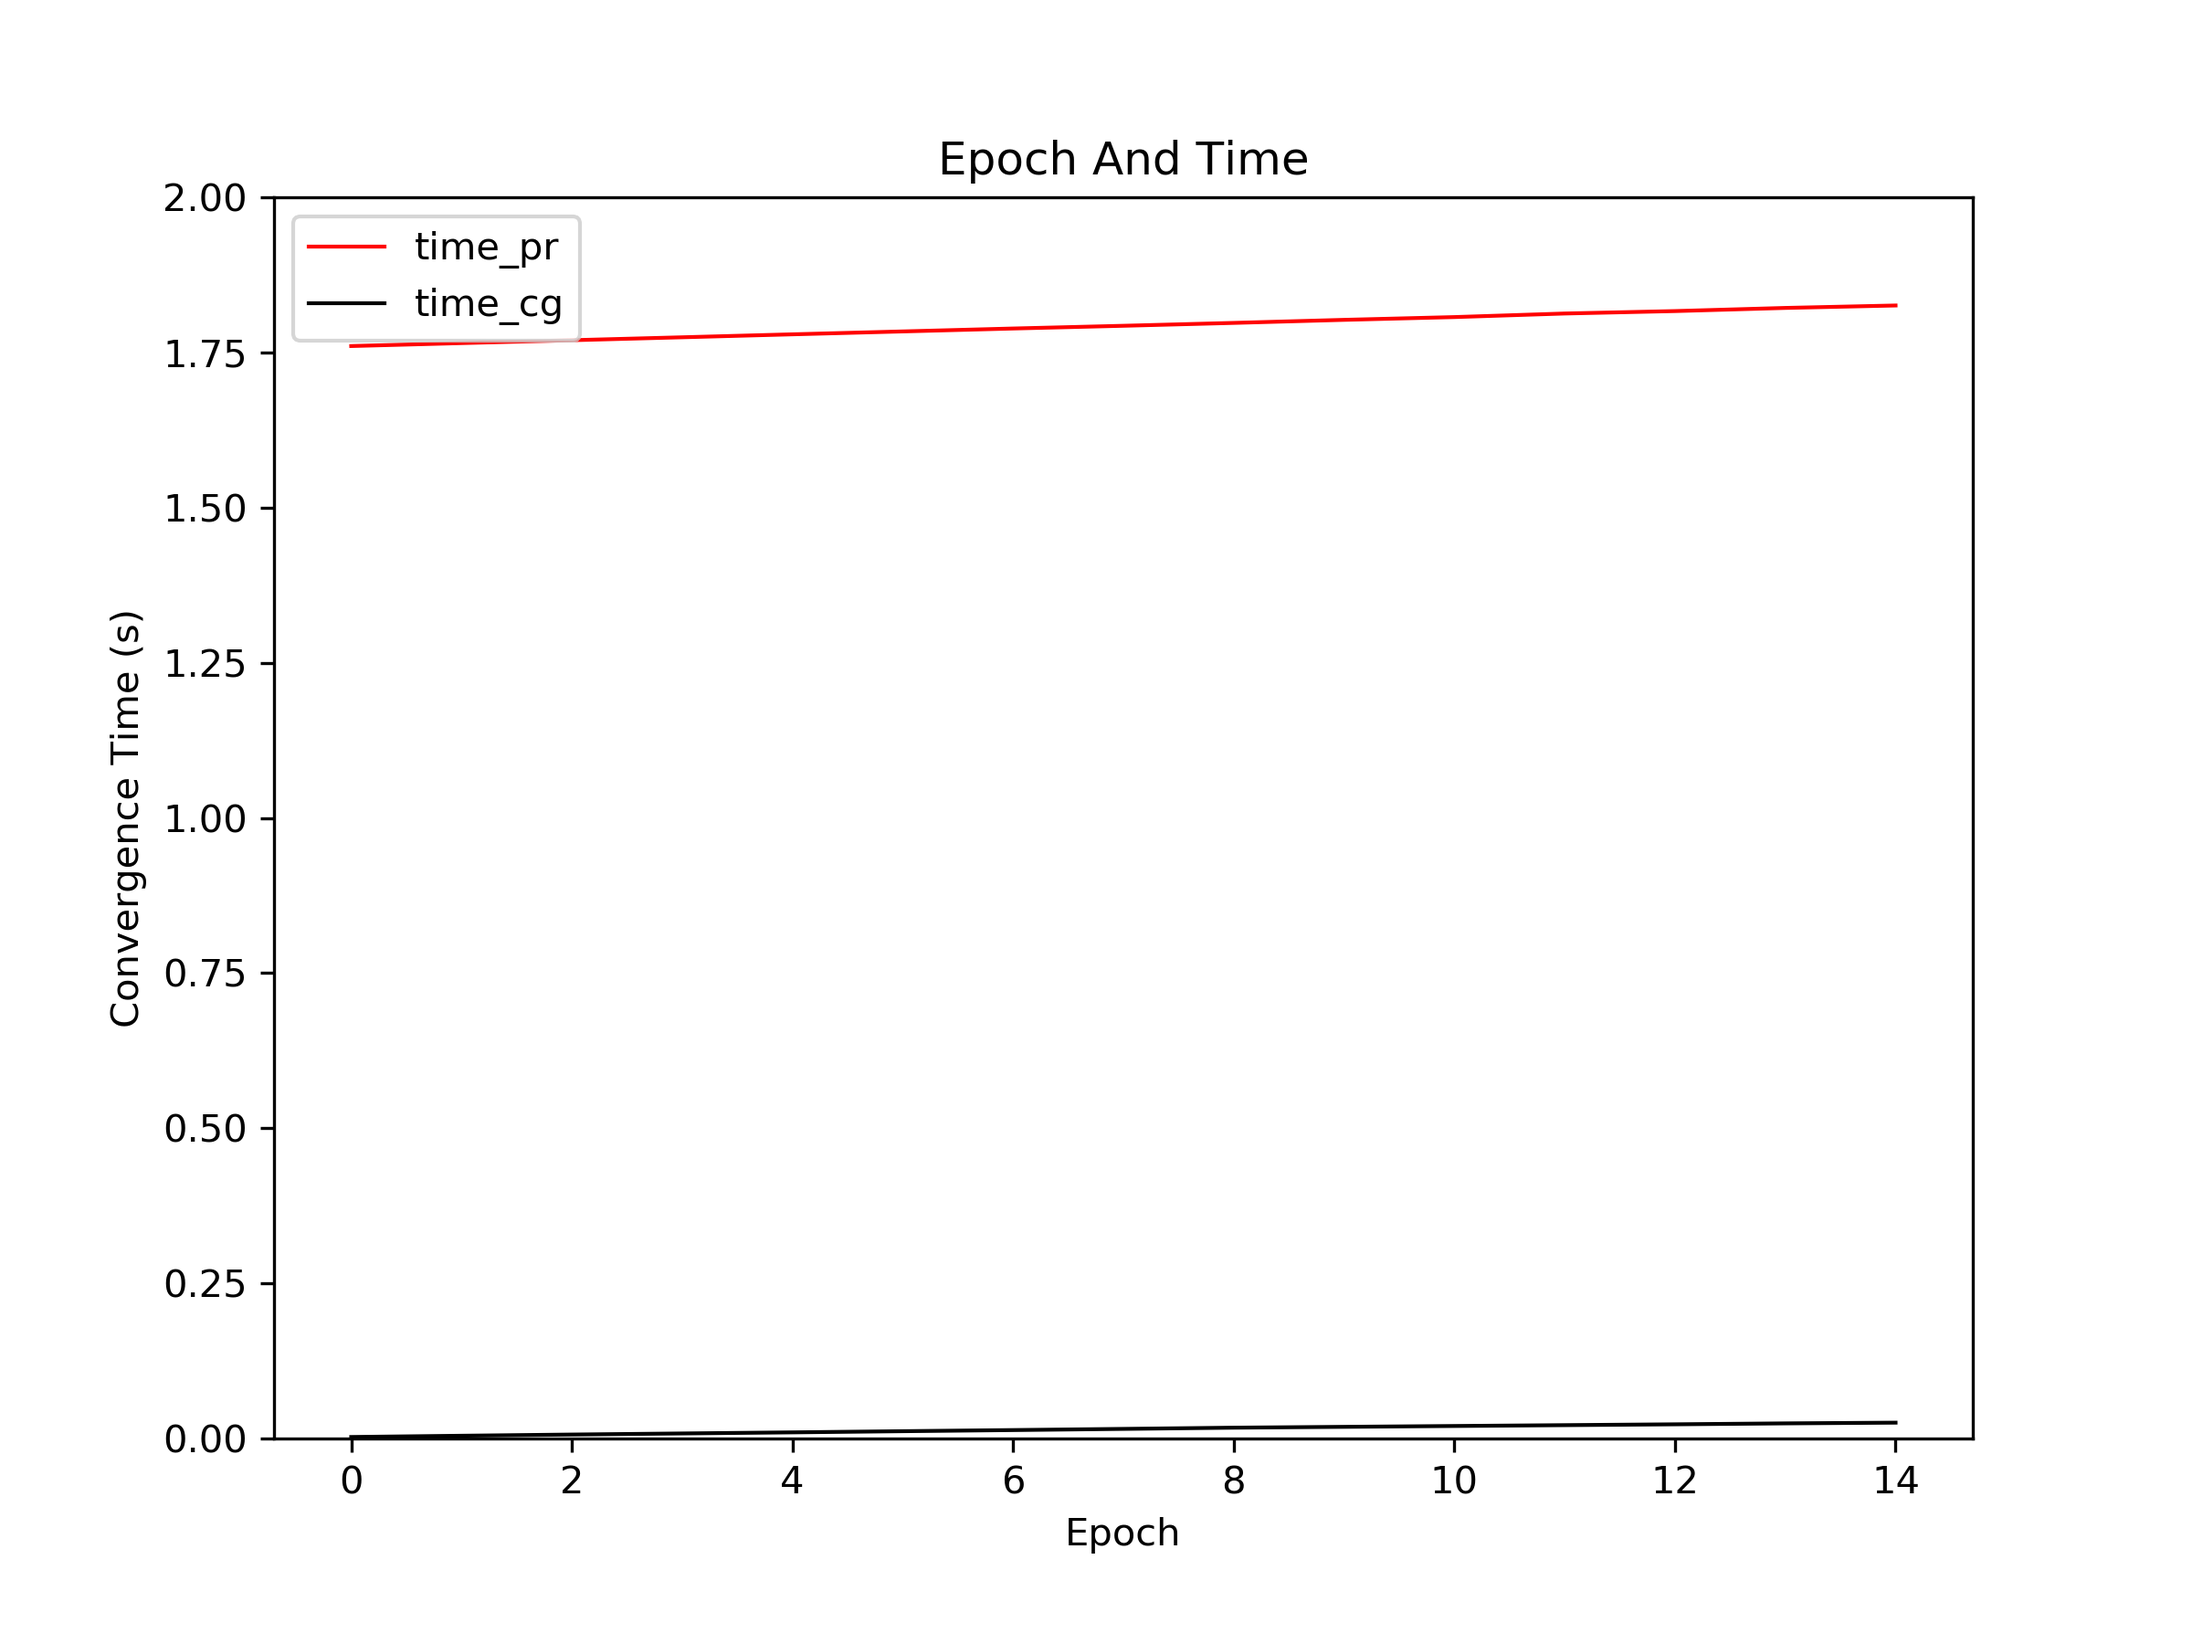
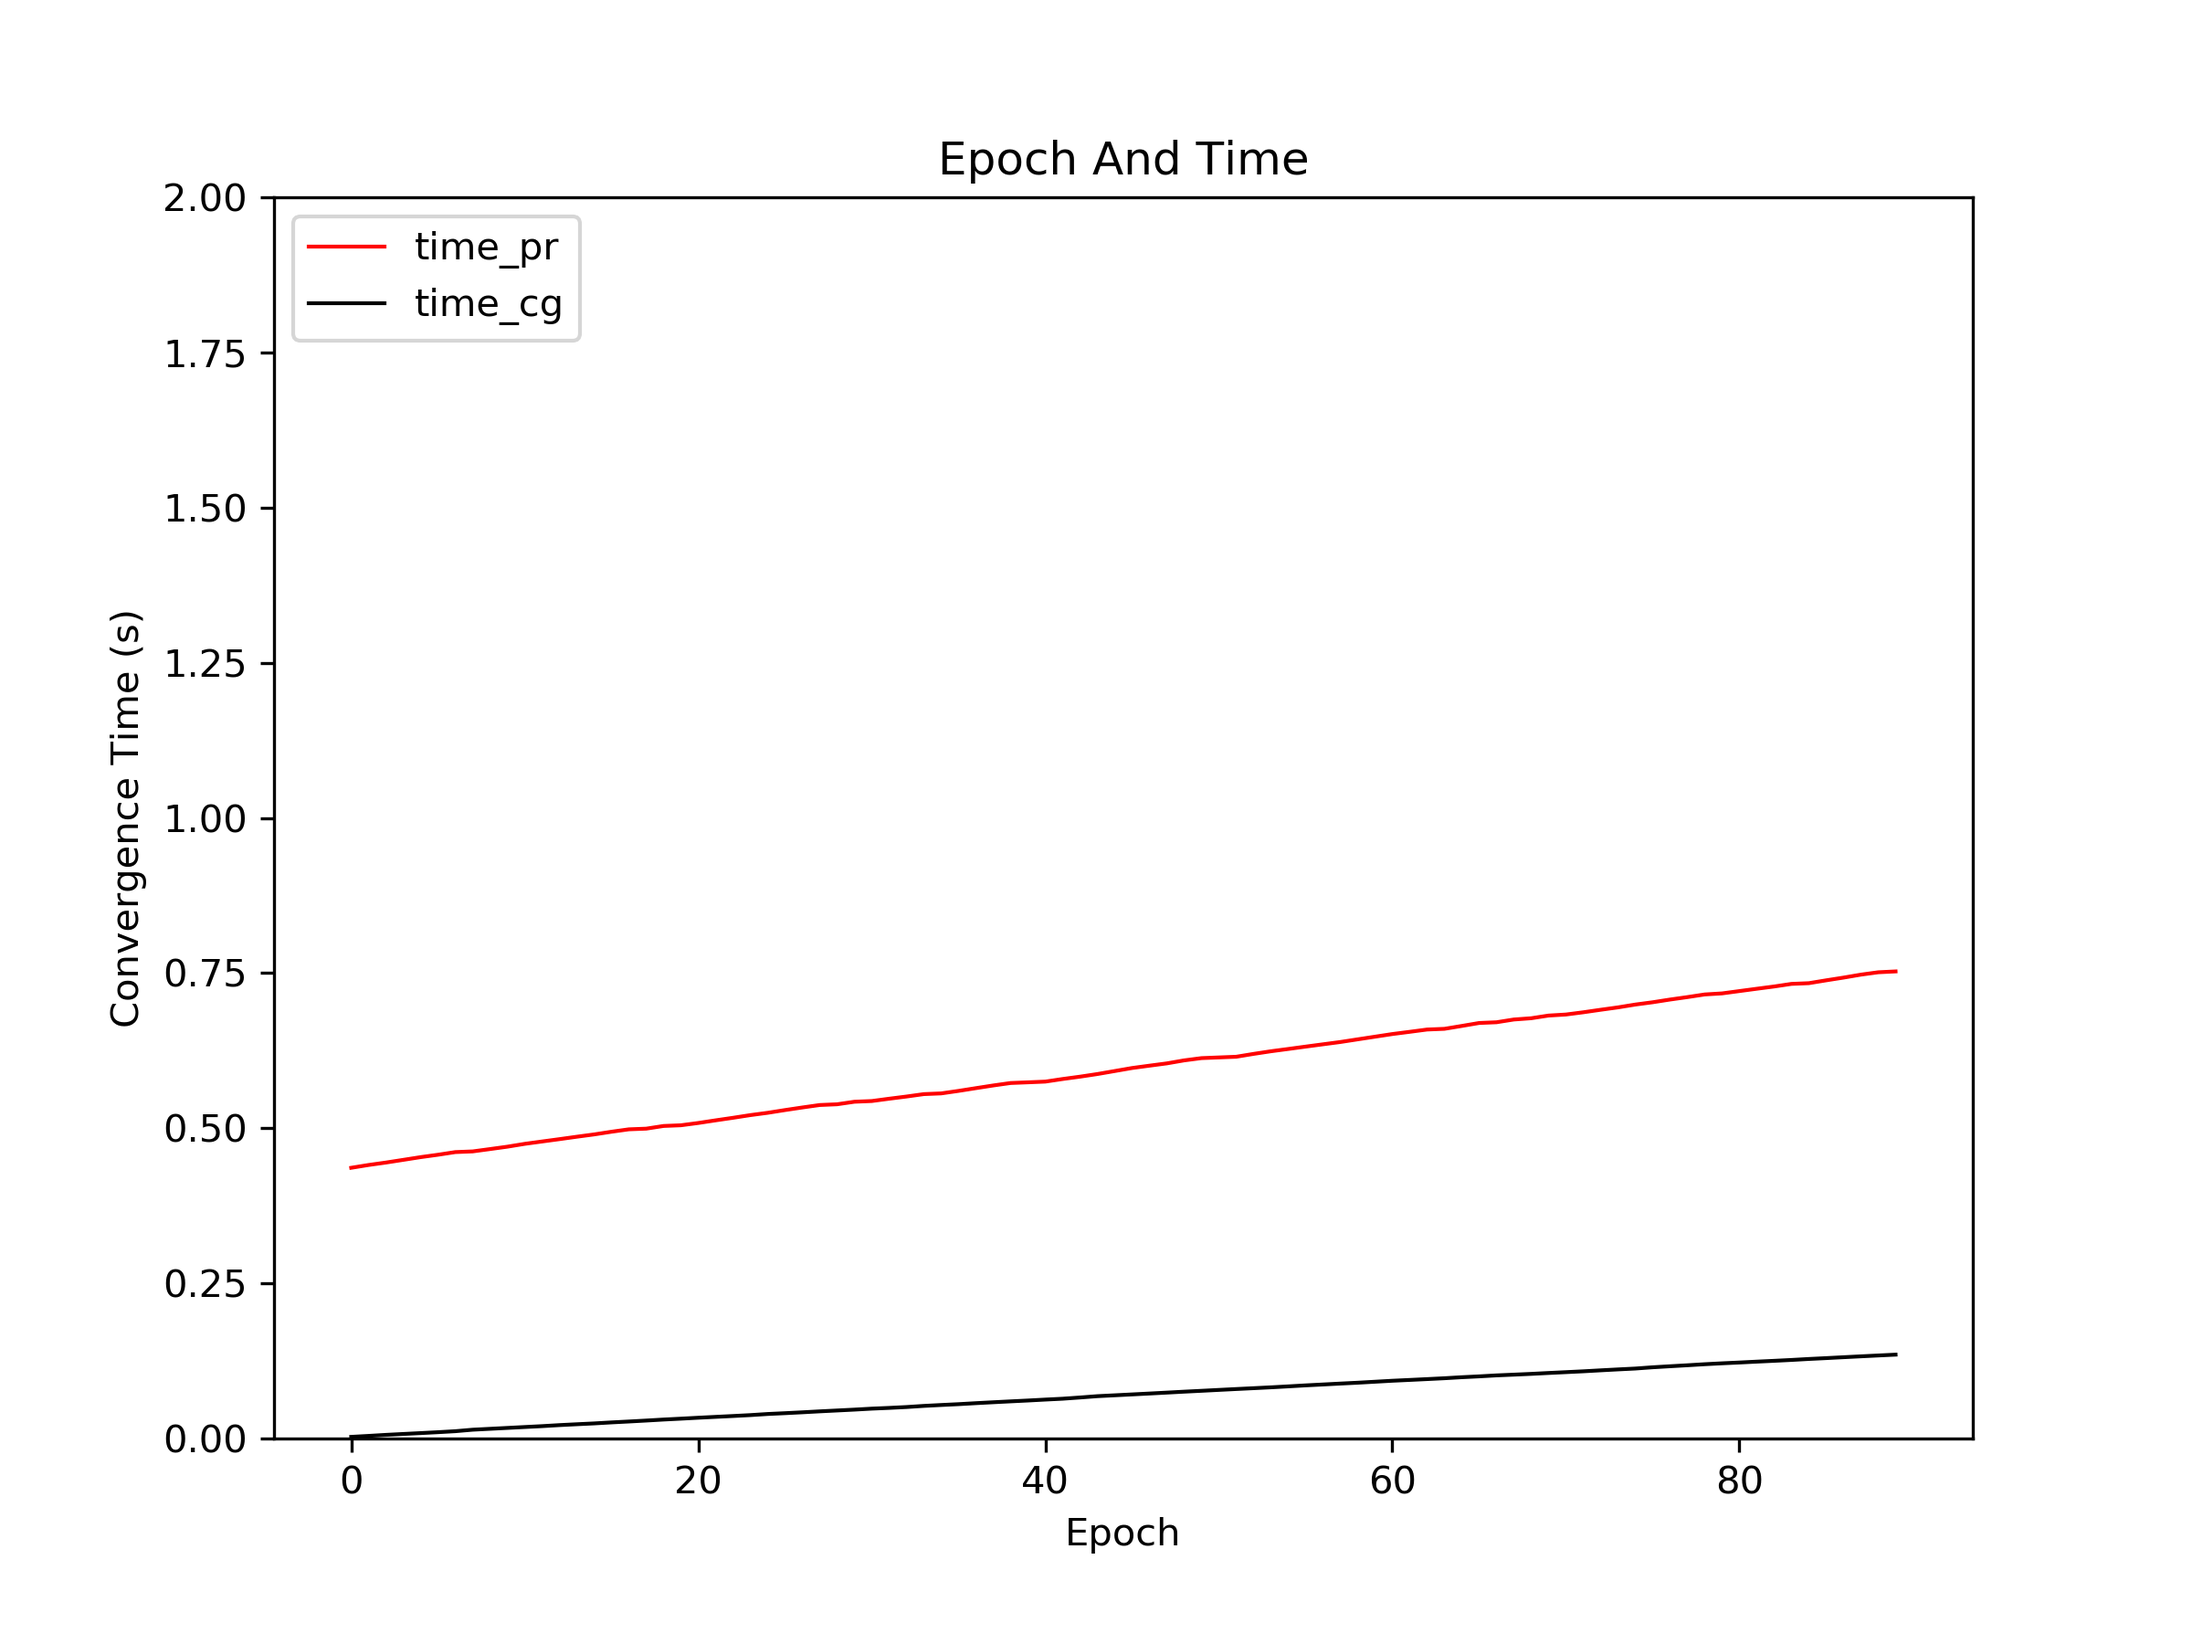
Modified the batch size for small params

diff --git a/MP1/mp1.py b/MP1/mp1.py
@@ -46,8 +46,11 @@ def main(method, epochs, larger_param, full_batch, no_restart):
     if full_batch:
         batch_size = full_batch_size
     else:
-        batch_size = 100 #size of mini-batch
-
+        if larger_param:
+            batch_size = 100 #size of mini-batch
+        else:
+            batch_size = 20
+        
     print("Training")
     print("Full Batch Size: {}".format(full_batch_size))
     print("Batch Size: {}".format(batch_size))
@@ -114,14 +117,14 @@ def plot(time_slot_pr, train_acc_pr, test_acc_pr, time_slot_cg, train_acc_cg, te
     plt.plot(epoch, time_slot_pr, color="red", linewidth=1.0, linestyle="-", label='time_pr')
     plt.plot(epoch, time_slot_cg, color="black", linewidth=1.0, linestyle="-", label='time_cg')
     plt.legend(loc='upper left')
-    plt.ylim(0, 10.0)
+    plt.ylim(0, 2.0)
     plt.savefig("./figures/{}_time.png".format(name),dpi=300)
     plt.show()
 
 if __name__ == '__main__':
-    e=40
-    l=True
-    f=False
+    e=15
+    l=False
+    f=True
     nr=True
     time_slot_pr, train_acc_pr, test_acc_pr = main(method='pr', epochs=e, larger_param=l, full_batch=f, no_restart=nr)
     time_slot_cg, train_acc_cg, test_acc_cg = main(method='cg', epochs=e, larger_param=l, full_batch=f, no_restart=nr)
